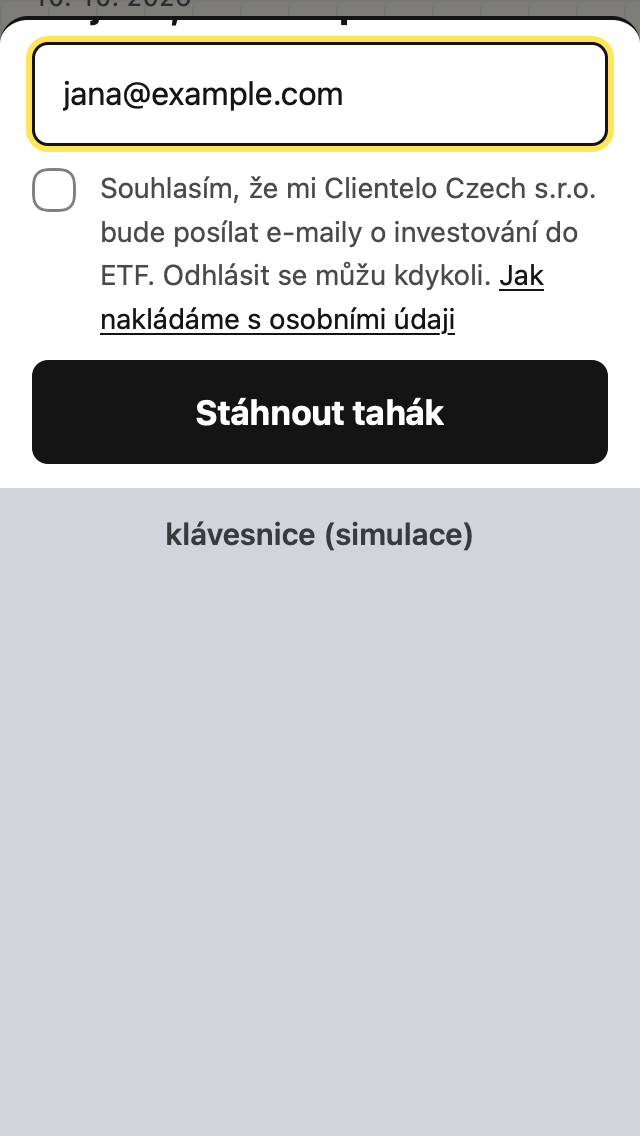
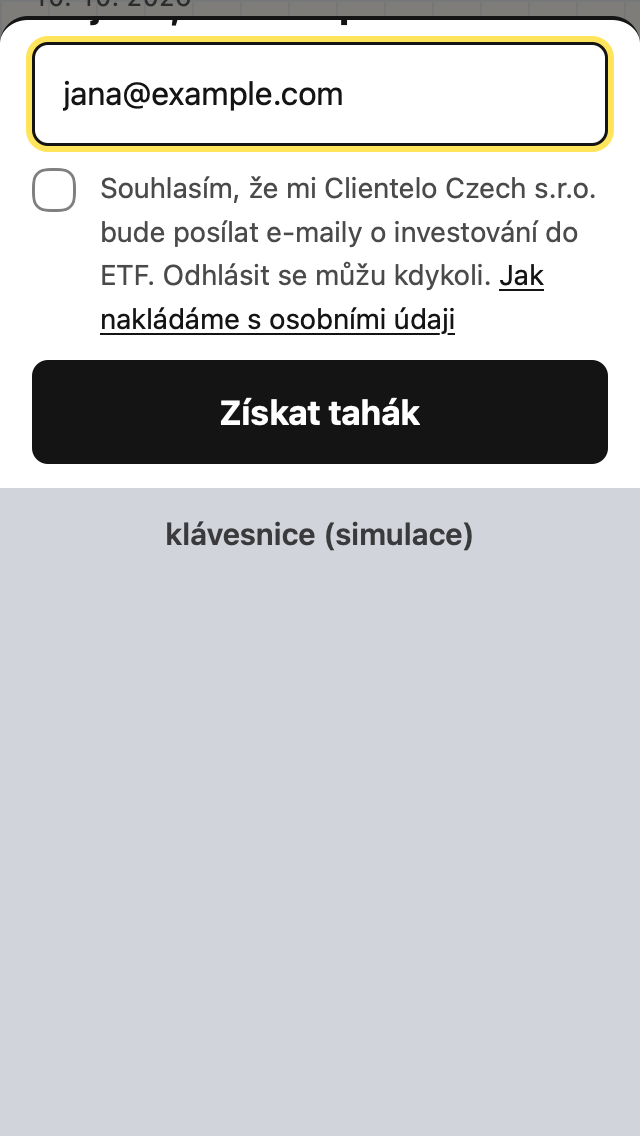
Snímky „po“ a ve WebKitu s klávesnicí, README a deník po 2. testu
- docs/screenshots/po-*: aktuální stav v Chromu (375 px),
- docs/screenshots/webkit-*: panel a formulář na místě s otevřenou
  (simulovanou) klávesnicí na 320, 375 a 390 px,
- README: velikost stránky a Lighthouse (11. 10. 2026), výsledky
  druhého testu na iPhonu a tabulka snímků s klávesnicí,
- ai-log/denik.md: zadání, kontrola a kde se AI spletla.

Changed region(s): [[0.3125, 0.3389, 0.6875, 0.4005]]

diff --git a/README.md b/README.md
@@ -129,7 +129,7 @@ _TODO: tři hypotézy seřazené podle očekávaného dopadu. U každé změna, 
 
 _TODO: stack a proč (čisté HTML/CSS/JS bez build kroku, Vercel, Supabase), zpracování formuláře, zabezpečení klíčů, rychlost načtení._
 
-- **Celá stránka je jeden soubor `public/index.html`** s inline CSS a JS a systémovým písmem. Bez externích skriptů a písem: 49 kB, po gzipu 13,6 kB, z toho JS 3,8 kB. Jediný obrázek je náhled taháku (WebP, 24 kB), který se načte až u formuláře. Lighthouse po předělání designu (mobil, 10. 10. 2026, lokálně): 100 ve všech čtyřech kategoriích (výkon, přístupnost, osvědčené postupy, SEO) u všech tří verzí úvodu, LCP 1,0 s, CLS 0.
+- **Celá stránka je jeden soubor `public/index.html`** s inline CSS a JS a systémovým písmem. Bez externích skriptů a písem: 58,7 kB, po gzipu 16,9 kB, z toho JS 16,7 kB (po gzipu 6,1 kB). Jediný obrázek je náhled taháku (WebP, 24 kB), který se načte až u formuláře. Lighthouse (mobil, 11. 10. 2026, lokální server bez komprese): 100 ve všech čtyřech kategoriích (výkon, přístupnost, osvědčené postupy, SEO) u všech tří verzí úvodu, LCP 1,2 s, CLS 0, TBT 0 ms, celkem 82 KiB.
 - **„Ručně kreslené“ prvky bez písma navíc.** Fix, šipky, kroužky a fajfky jsou malá inline SVG. Rukou psané písmo by přidalo desítky kB a probliknutí textu. Lístky se otáčejí jen přes CSS a při `prefers-reduced-motion` se jen vymění obsah.
 - **Ikony a obrázek pro sdílení generuje skript** ([scripts/obrazky.mjs](scripts/obrazky.mjs)) ve stylu stránky a s čísly z `data/etf.json`: favicon (SVG a ICO), ikona pro iOS a `og.png` 1200×630 pro náhled odkazu na Facebooku a v Messengeru. Stránka si je nenačítá, takže nezdržují.
 - **Jen světlé barvy** (`color-scheme: only light`). Tmavý režim iOS ani automatické ztmavení v Chromu stránku nepřebarví, „sešit“ zůstane papírový.
@@ -210,6 +210,22 @@ Snímky před úpravami a po nich jsou v [docs/screenshots/](docs/screenshots/) 
 | Poděkování | <img src="docs/screenshots/pred-5-podekovani.png" width="220" alt="Rozbité poděkování před"> | <img src="docs/screenshots/po-5-podekovani.png" width="220" alt="Poděkování po"> |
 
 Varianty úvodu po: [?v=dvojce](docs/screenshots/po-1b-uvod-dvojce.png), [?v=zacatek](docs/screenshots/po-1c-uvod-zacatek.png).
+
+**Druhý test na skutečném iPhonu, zase člověk** (Safari, 10. 10. 2026). Design a lístky fungovaly, ale objevily se chyby, které headless Chrome neukázal:
+
+- Po klepnutí do pole e-mail v panelu ze spodní lišty panel odskočil nahoru, nadpis zajel pod horní lištu telefonu, pole zmizelo pod klávesnicí a pod panelem prosvítala stránka. Příčina: iOS při klávesnici zmenší jen visual viewport, pevně umístěný panel nechá pod klávesnicí a posouvá stránku i panel. Navíc fokus šel do pole ještě během animace panelu. Oprava a test ve WebKitu jsou popsané v sekci [Testování](#testování-co-automaticky-a-co-jen-na-telefonu).
+- V logu serveru bylo `GET /tahak.pdf` s 404 hned po úspěšném HEAD. Zopakovat se to nepodařilo a přegenerováním PDF to nebylo (PDF se naposledy zapsalo o 22 minut dřív). Generování teď zapisuje přes dočasný soubor a lokální server u každé 404 vypíše, kde soubor hledal.
+- Safari PDF místo stažení otevřelo v prohlížeči, takže poděkování „tahák se ti stahuje“ neplatilo. Teď je tam tlačítko „Otevřít tahák“.
+- Poděkování bylo prázdné, zásady měly moc žlutých TODO, chyběla favicona.
+
+AI navíc při kontrole na 320 px našla, že zadní strana lístku se třemi brokery přetékala přes další řadu, a že headless WebKit nerespektuje `backface-visibility` (rub prosvítal). Obojí je opravené a hlídané testem.
+
+Panel a formulář na místě s otevřenou klávesnicí ve WebKitu (simulace, viz [scripts/test-webkit.mjs](scripts/test-webkit.mjs)):
+
+| | iPhone SE 1. gen. (320 px) | iPhone SE 3. gen. (375 px) | iPhone 13 (390 px) |
+|---|---|---|---|
+| Panel ze spodní lišty | <img src="docs/screenshots/webkit-panel-klavesnice-320.png" width="180" alt="Panel s klávesnicí, 320 px"> | <img src="docs/screenshots/webkit-panel-klavesnice-375.png" width="180" alt="Panel s klávesnicí, 375 px"> | <img src="docs/screenshots/webkit-panel-klavesnice-390.png" width="180" alt="Panel s klávesnicí, 390 px"> |
+| Formulář pod lístky | <img src="docs/screenshots/webkit-na-miste-klavesnice-320.png" width="180" alt="Formulář na místě s klávesnicí, 320 px"> | <img src="docs/screenshots/webkit-na-miste-klavesnice-375.png" width="180" alt="Formulář na místě s klávesnicí, 375 px"> | <img src="docs/screenshots/webkit-na-miste-klavesnice-390.png" width="180" alt="Formulář na místě s klávesnicí, 390 px"> |
 
 ## Před spuštěním kampaně
 

diff --git a/ai-log/denik.md b/ai-log/denik.md
@@ -85,3 +85,28 @@ Doplňuje exporty konverzací (`/export`), které nezachytí celý průběh prá
   - Po prvním otočení se ukázala spodní lišta a překryla třetí řadu lístků, takže klepnutí na SDY a VGT trefilo lištu. Zjistil to automatický test; teď se lišta ukáže, až jsou lístky mimo obrazovku. Skutečná vada UX, ne testu.
   - „Trading 212“ se zalamovalo mezi slovem a číslem. Ukázal to snímek; doplněná nezlomitelná mezera.
   - Test po stažení PDF neukončil proces. Doplněný explicitní konec.
+
+### 2026-10-11 – opravy po druhém testu na iPhonu, příprava Supabase a Vercelu
+
+- **Zadání pro AI:**
+  - nejdřív napsat příčinu chyby s klávesnicí na iPhonu, pak opravit a otestovat ve WebKitu (Playwright, iPhone 13 a SE) se simulovanou klávesnicí,
+  - zjistit 404 u PDF, zápis PDF přes dočasný soubor, poděkování nesmí slibovat stažení,
+  - poděkování s tlačítkem, prvním krokem a sdílením (měřené),
+  - zásady: IČO a sídlo z ARES, místo žlutých TODO „doplní správce“,
+  - favicon, obrázek pro sdílení, `color-scheme`, přístupnost panelu, šířka 320 px,
+  - schéma Supabase, trychtýř, funkce v `api/` s testy na podvrženou databázi, `vercel.json`, návod.
+- **Kontrola výstupu:**
+  - test ve WebKitu (72 kontrol) se dvěma modely klávesnice (iOS: zmenšený visualViewport, Android: zmenšené okno) a snímky s nakreslenou klávesnicí,
+  - test funkcí s podvrženou databází (54 kontrol),
+  - test stránky v Chromu (109 kontrol), nově porovnává odeslané události s tím, co server uložil, a zkouší výpadek databáze,
+  - při přegenerování PDF 170 požadavků na soubor, všechny 200 a celý soubor,
+  - u nových kontrol ověřeno, že na staré verzi stránky selžou (přetékání lístků na 320 px),
+  - snímky, obrázek pro sdílení a zásady prohlédnuté očima, Lighthouse.
+- **Kde se AI spletla a jak se na to přišlo:**
+  - Chybu s klávesnicí zavedla AI sama v předchozí verzi: panel `position: fixed` u spodku a fokus do pole hned po `showModal()` během animace. Headless Chrome klávesnici nemá, takže to žádný test neukázal. Našel to člověk na iPhonu.
+  - Kontrola šířky hlídala jen vodorovné přetečení, takže nezachytila, že na 320 px rub lístku se třemi brokery přetéká svisle přes další řadu. AI na to přišla při prohlížení snímků z 320 px a doplnila svislou kontrolu.
+  - Headless WebKit nerespektuje `backface-visibility`, takže všechny lístky ukazovaly zrcadlově rub. Na iPhonu to podle člověka fungovalo. Odhalil to snímek z WebKitu; stránka má teď pojistku přes `visibility`.
+  - Test měření po přechodu na skutečné požadavky nezachytil odeslání kontaktu: Puppeteer u `fetch`, jehož tělo stránka nečte, nevyvolá `requestfinished`. Test teď čte událost `response`.
+  - Testovací adresa `jana@seznam.cz` mohla patřit skutečnému člověku. Při kontrole diffu před commitem ji AI nahradila adresou na vyhrazené doméně `example.com`.
+  - Adresu `etf-dvojcata.vercel.app` AI chtěla použít pro `og:image`, ale kontrola ukázala, že ji už používá cizí projekt. Zvolila volnou `etf-dvojcata-clientelo` a zapsala to do návodu.
+  - Příčinu 404 u PDF se nepodařilo zjistit. AI to neoznačila za vyřešené: zapsala, co vyloučila, a přidala diagnostiku do lokálního serveru.
